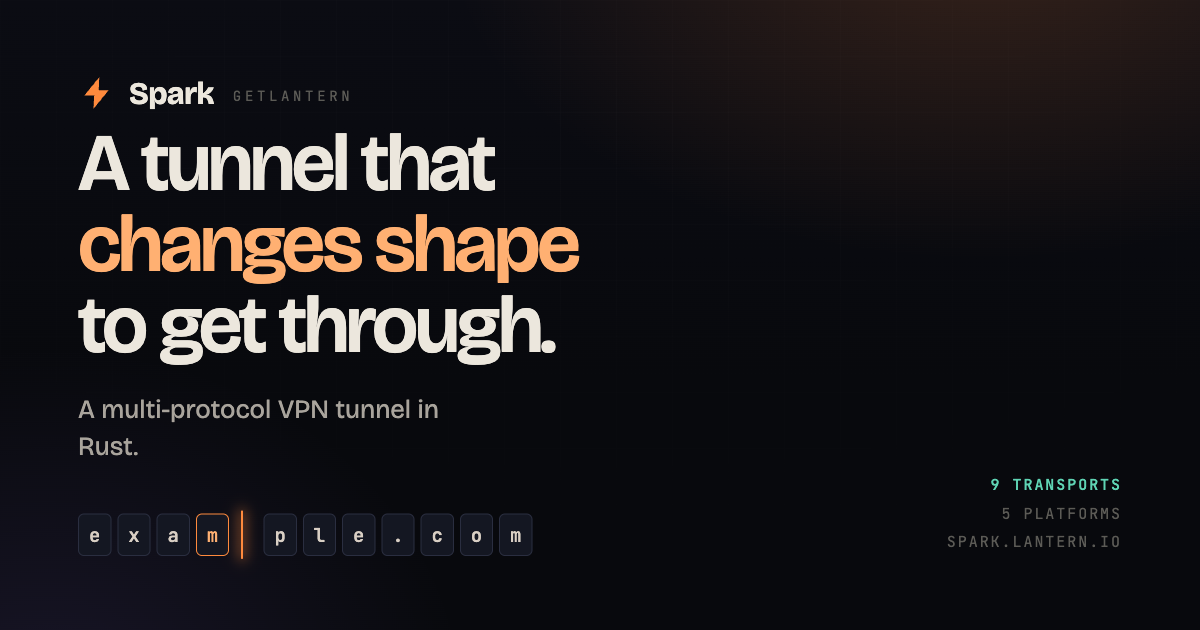
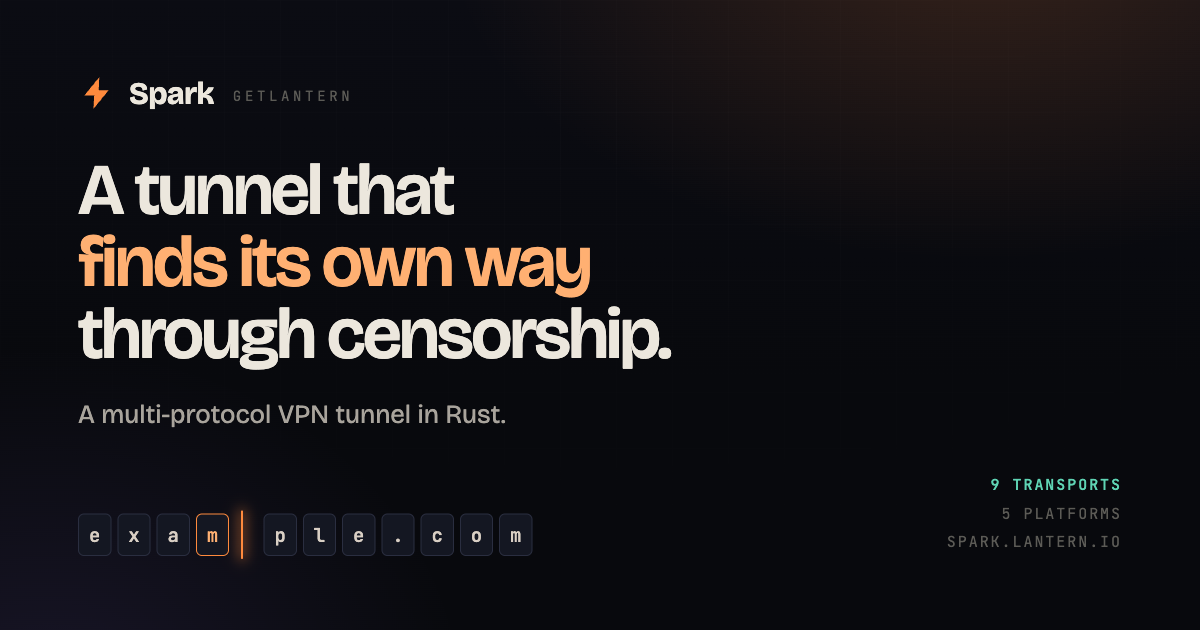
Align the shelf and opening with the actual crack; new headline
Fixes a real bug that was live: ladders beside the crack let figures through
and ladders on it did not.

The cause was hand-placed percentages. The crack is generated, so its opening
is wherever the undulation function put it — 56.4% across the box, not the ~52%
I guessed. The passable zone therefore sat a clear 22px LEFT of the visible
opening, and the vanishing point had the same error, so anyone who did get
through receded past the side of the crack rather than into it.

Both are now derived, and confirmed two independent ways before changing
anything: replaying the generator's own maths gives 57.0%, and rasterising the
SVG and taking the brightness centroid of the opening gives 56.4% (brightest
pixel 55.9%). Measured after the fix: mouth centre 56.5% against a measured
opening of 56.4%, a 1px offset, with the shelf spanning it. The CSS records the
provenance and says to re-derive rather than nudge if the art is regenerated,
because this fails silently.

Also included, previously only on the preview:

  - The hero copy is no longer terrain. Nobody stands on the kicker, headline,
    lede or buttons; verified as zero drawn pixels in the band above the
    kicker. In the hero the only ledges are the barren ground and the shelf, so
    everyone up there is working on getting through.
  - The goal is two-stage. Everyone wants the break, but it is only reachable
    from the ground beneath it, so until a figure is standing on that ground the
[…]

Changed region(s): [[0.0617, 0.2111, 0.555, 0.6032], [0.0617, 0.6333, 0.4317, 0.7238]]

diff --git a/assets/little.js b/assets/little.js
@@ -25,7 +25,10 @@
 
   /* Terrain by selector rather than hand-marked elements, so new sections are inhabited without
      anyone remembering to annotate them. */
-  var LEDGE_SEL = '[data-ledge], .kicker, h1, .lede, .btn, .card, .shead h2, .row, .lp, .fig .box, .note';
+  /* The hero copy is deliberately absent: nobody stands on the headline or the kicker. In the
+     hero the only terrain is the barren ground and the shelf at the break, so everyone there is
+     working on getting through. Other sections keep their cards and rows. */
+  var LEDGE_SEL = '[data-ledge], .card, .shead h2, .row, .lp, .fig .box, .note';
 
   var CAPS = ['#ff8a3d', '#5fd4b4', '#9d7bff', '#ffb072'];     // site accents, for hats
   var FIRE = ['#fff1d2', '#ffe0a8', '#ffc98c', '#ffb072',      // embers are NOT site accents:
@@ -88,8 +91,10 @@
     if (tgt) goal = { x: (tgt.x0 + tgt.x1) / 2, y: tgt.yTop };
     if (brEl) {
       var br = docRect(brEl);
-      // the bright middle of the opening, in the breach SVG's own proportions
-      vanish = { x: br.x0 + (br.x1 - br.x0) * 0.50, y: br.yTop + (br.yBot - br.yTop) * 0.43 };
+      // The bright middle of the opening, measured from the artwork rather than guessed: the
+      // brightness centroid of the rasterised SVG lands at 56.4% / 44.8%, its brightest pixel at
+      // 55.9% / 40.9%. x was 0.50 here, which had them receding past the side of the crack.
+      vanish = { x: br.x0 + (br.x1 - br.x0) * 0.565, y: br.yTop + (br.yBot - br.yTop) * 0.425 };
     }
 
     FLOOR = docH - 36;
@@ -115,6 +120,19 @@
       }
       if (!merged) walls.push({ x0: b.x0, x1: b.x1, yTop: b.yTop, yBot: b.yBot });
     }
+  }
+
+  /* Where this one is trying to get to. Everybody wants the break, but you cannot reach it from
+     anywhere except the barren ground beneath it — so until you are standing on that, the ground
+     IS the goal. Two stages, not one. */
+  function onGround(f) {
+    return !!groundBox && Math.abs(f.y - groundBox.yTop) < 4 &&
+           f.x > groundBox.x0 - 6 && f.x < groundBox.x1 + 6;
+  }
+  function goalFor(f) {
+    if (!groundBox) return goal;
+    if (onGround(f)) return goal;                       // the opening
+    return { x: (groundBox.x0 + groundBox.x1) / 2, y: groundBox.yTop };
   }
 
   function surfaceUnder(x, y) {
@@ -146,18 +164,18 @@
 
   /* A ledge above and within reach. Scored on whether it actually helps: height gained, and
      how much nearer to the break it puts you. Everyone here is going the same place. */
-  function ledgeAbove(x, y) {
+  function ledgeAbove(x, y, aim) {
     var best = null, bestScore = -1e9;
     for (var i = 0; i < walls.length; i++) {
       var w = walls[i], rise = y - w.yTop;
       if (rise < 26 || rise > LADDER_REACH) continue;
       if (x < w.x0 + 6 || x > w.x1 - 6) continue;
       var score = rise;                                     // height is progress
-      if (goal) {
-        var here = Math.abs(x - goal.x);
-        var there = Math.abs(Math.max(w.x0 + 6, Math.min(w.x1 - 6, goal.x)) - goal.x);
+      if (aim) {
+        var here = Math.abs(x - aim.x);
+        var there = Math.abs(Math.max(w.x0 + 6, Math.min(w.x1 - 6, aim.x)) - aim.x);
         score += (here - there) * 0.55;                     // and so is getting closer
-        if (w.yTop < goal.y - 2) score -= 40;               // no point overshooting past it
+        if (w.yTop < aim.y - 2) score -= 40;                // no point overshooting past it
       }
       if (score > bestScore) { bestScore = score; best = w; }
     }
@@ -296,7 +314,7 @@
 
         // Standing under the break with it in reach? Then go, right now. Waiting for the wander
         // timer meant walking straight past the one thing everybody is trying to get to.
-        if (lipBox && f.y > lipBox.yTop + 20 && f.y - lipBox.yTop <= LADDER_REACH &&
+        if (lipBox && onGround(f) && f.y > lipBox.yTop + 20 && f.y - lipBox.yTop <= LADDER_REACH &&
             f.x > lipBox.x0 - 4 && f.x < lipBox.x1 + 4 && !ladderNear(f.x, f.y)) {
           f.state = 'build'; f.t = 0;
           f.ladder = { x: f.x, yBot: f.y, yTop: lipBox.yTop, h: f.y - lipBox.yTop,
@@ -308,10 +326,11 @@
           f.idle = 2 + Math.random() * 5;
           // Everyone is trying to reach the break. Head that way, mostly — a little noise so it
           // is a crowd of individuals rather than a column on rails.
-          if (goal && Math.random() < 0.82) f.dir = goal.x > f.x ? 1 : -1;
+          var aim = goalFor(f);
+          if (aim && Math.random() < 0.82) f.dir = aim.x > f.x ? 1 : -1;
           else if (Math.random() < 0.3) f.dir *= -1;
 
-          var up = ledgeAbove(f.x, f.y);
+          var up = ledgeAbove(f.x, f.y, aim);
           // Climb whenever climbing helps; only dawdle when it does not.
           if (up && !ladderNear(f.x, f.y) && Math.random() < 0.72) {
             f.state = 'build'; f.t = 0;
@@ -324,7 +343,11 @@
         }
 
         var nx = f.x + f.dir * WALK * dt;
-        if (nx < 12 || nx > W - 12) { f.dir = goal ? (goal.x > f.x ? 1 : -1) : -f.dir; continue; }
+        if (nx < 12 || nx > W - 12) {
+          var edgeAim = goalFor(f);
+          f.dir = edgeAim ? (edgeAim.x > f.x ? 1 : -1) : -f.dir;
+          continue;
+        }
 
         var ob = obstacleAt(nx, f.y);
         if (ob) {                                            // walked into the side of something

diff --git a/index.html b/index.html
@@ -4,9 +4,9 @@
 <meta charset="utf-8" />
 <meta name="viewport" content="width=device-width, initial-scale=1" />
 <title>Spark — an adaptive tunnel for hostile networks</title>
-<meta name="description" content="Spark is a from-scratch, multi-protocol VPN tunnel in Rust. Nine transports, opening handshakes searched for rather than hand-written, and per-flow routing that only tunnels what has to be tunnelled." />
-<meta property="og:title" content="Spark — an adaptive tunnel for hostile networks" />
-<meta property="og:description" content="Censors classify a connection from its opening handshake. Spark makes that opening the thing to get right, with a repertoire searched for against the live network rather than written by hand." />
+<meta name="description" content="Spark is a from-scratch, multi-protocol VPN tunnel in Rust that finds its own way through censorship. Nine transports, opening handshakes searched for rather than hand-written, and per-flow routing that only tunnels what has to be tunnelled." />
+<meta property="og:title" content="Spark — a tunnel that finds its own way through censorship" />
+<meta property="og:description" content="Censors decide from the opening handshake. Spark treats that opening as a search problem: try something, see what arrives, keep what works." />
 <meta name="theme-color" content="#08090d" />
 <link rel="canonical" href="https://spark.lantern.io/">
 <meta property="og:url" content="https://spark.lantern.io/">
@@ -58,13 +58,13 @@
 <header class="tall">
   <div class="hero">
     <div>
-      <span class="kicker rise" data-ledge>Multi-protocol tunnel · Rust · nine transports</span>
-      <h1 class="rise" data-ledge style="transition-delay:.06s">A tunnel that<br><span class="br">changes shape</span><br>to get through.</h1>
-      <p class="lede rise" data-ledge style="transition-delay:.14s">Censors classify a connection from its opening handshake, within the first few hundred bytes. Spark treats that opening as the thing to get right, and gives it a repertoire deep enough that it never has to reuse one.</p>
+      <span class="kicker rise">Multi-protocol tunnel · Rust · nine transports</span>
+      <h1 class="rise" style="transition-delay:.06s">A tunnel that<br><span class="br">finds its own way</span><br>through censorship.</h1>
+      <p class="lede rise" style="transition-delay:.14s">Censors decide what a connection is from its opening handshake, inside the first few hundred bytes. Spark treats that opening as a search problem: try something, see what arrives, keep what works — because what gets through today will not get through forever.</p>
       <div class="cta rise" style="transition-delay:.24s">
-        <a class="btn pri" href="#adapt" data-ledge>How it works</a>
-        <a class="btn" href="architecture.html" data-ledge>Architecture</a>
-        <a class="btn" href="modules.html" data-ledge>Write a module</a>
+        <a class="btn pri" href="#adapt">How it works</a>
+        <a class="btn" href="architecture.html">Architecture</a>
+        <a class="btn" href="modules.html">Write a module</a>
       </div>
     </div>
     <div class="breach rise" style="transition-delay:.18s" aria-hidden="true">

diff --git a/assets/site.css b/assets/site.css
@@ -174,9 +174,16 @@ h1 .vi{color:var(--violet)}
    off-target and you arrive on the shelf with nowhere to go, and have to shuffle along to find
    the gap. Both are near-invisible; they exist so the little-people layer has something to
    measure. */
-.crack-lip{position:absolute; left:40%; width:24%; top:56%; height:8px;
+/* Horizontal placement is DERIVED, not eyeballed. The crack is generated, so its opening is
+   wherever the generator's undulation put it — 56.5% across the box, confirmed two ways: by
+   replaying the generator's own maths (57.0%) and by rasterising the SVG and taking the
+   brightness centroid of the opening (56.4%, brightest pixel 55.9%).
+   These were previously hand-set at ~52%, which put the passable zone a clear 22px LEFT of the
+   visible opening: ladders beside the crack let figures through and ladders on it did not.
+   If the crack art is ever regenerated, re-derive these rather than nudging them. */
+.crack-lip{position:absolute; left:44.5%; width:24%; top:56%; height:8px;
   border-radius:2px; background:rgba(255,196,140,.04); pointer-events:none}
-.crack-mouth{position:absolute; left:49.5%; width:4.5%; top:56%; height:8px;
+.crack-mouth{position:absolute; left:54.25%; width:4.5%; top:56%; height:8px;
   border-radius:2px; background:rgba(255,222,180,.10); pointer-events:none}
 
 /* No rounded corners and no drop shadow: those made it read as a UI card sitting on the page
